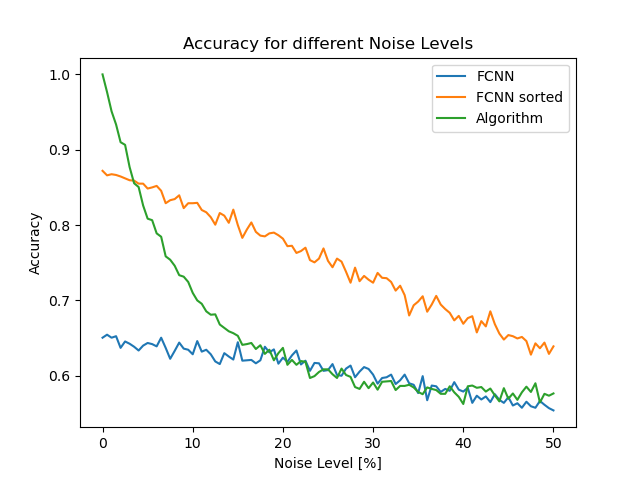
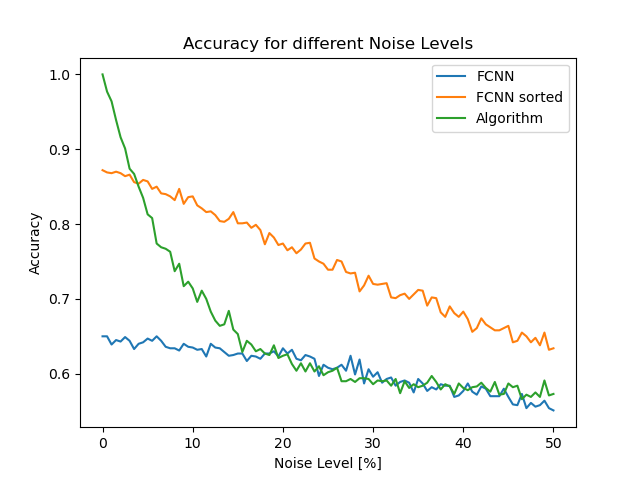
many heatmaps

diff --git a/netz/explainability.py b/netz/explainability.py
@@ -17,48 +17,55 @@ def check_inf_sites_arg(m):
       found_same = (len(list(set(indices1) & set(indices2))) != 0)
 
       if found_diff & found_same: return [i, j], (list(set(indices1) - set(indices2)) + list(set(indices2) - set(indices1)) + list(set(indices1) & set(indices2)))
-  return []
+  return list(), list()
 
-netzfc = torch.load('saved_fc_netz_won.py')
+netzfc = torch.load('saved_fc_netz_won.py', map_location=torch.device('cpu'))
 data = read_data_tens("../data/test_fin_sorted.txt")
-#data_noise = read_data_tens("../data/test_fin_noise_15_sorted.txt")
-netzfc = netzfc.cpu() 
+#data = read_data_tens("../data/test_fin_noise_15_sorted.txt")
 netzfc.eval()
-ig = IntegratedGradients(netzfc)
+#ig = IntegratedGradients(netzfc)
 occ = Occlusion(netzfc)
-mat = data[2].unsqueeze(0)
-#mat_noise = data_noise[2].unsqueeze(0)
-#attr_ig = ig.attribute(mat, target=0, n_steps=100)
-attr_occ = occ.attribute(mat, sliding_window_shapes=(1,1))
-#attr_occ_noise = occ.attribute(mat_noise, sliding_window_shapes=(1,1))
-alg = np.zeros((10,10))
-cols, rows = check_inf_sites_arg(mat[0])
-for col in cols:
-  for row in rows:
-    alg[row, col] = -1
+class_net = []
+attr_occ = []
+class_alg = []
+alg = []
+i = 0
+while i < 10:
+  mat = data[i+10].unsqueeze(0)
+  class_net.append(int(torch.round(netzfc(mat))[0]))
+  attr_occ.append(occ.attribute(mat, sliding_window_shapes=(1,1)))
+  class_alg.append(check_inf_sites(mat[0]))
+  a = np.zeros((10,10))
+  cols, rows = check_inf_sites_arg(mat[0])
+  for col in cols:
+    for row in rows:
+      a[row, col] = -1
+  alg.append(a)
+  i += 1
 
-fig, axs = plt.subplots(nrows=1, ncols=2, figsize=(15,5))
-heatmap_net = axs[0].imshow(np.array(attr_occ[0]), cmap='hot', interpolation='nearest')
-cbar_net = plt.colorbar(heatmap_net, ax=axs[0])
-axs[0].set_title("Network")
-heatmap_alg = axs[1].imshow(alg, cmap='hot', interpolation='nearest')
-cbar_alg = plt.colorbar(heatmap_alg, ax=axs[1])
-axs[1].set_title("Algorithm")
-mat = np.array(mat[0])
-for i in range(mat.shape[0]):
-    for j in range(mat.shape[1]):
-        text_color1 = 'white' if np.array(attr_occ[0])[i, j] < (-0.6) else 'black'
-        text_color2 = 'white' if alg[i, j] == (-1) else 'black'
-        text1 = axs[0].text(j, i, int(mat[i,j]), ha='center', va='center', color=text_color1)
-        text2 = axs[1].text(j, i, int(mat[i,j]), ha='center', va='center', color=text_color2)
+heatmaps = []
+cbars = []
+fig, axs = plt.subplots(nrows=5, ncols=4, figsize =(60, 50))
 
-"""
-plt.subplot(1, 3, 2)
-plt.imshow(np.array(attr_occ_noise[0]), cmap='hot', interpolation='nearest')
-plt.colorbar()
-plt.title("Network Noise")
-"""
+inx = 0
+for k in range(5):
+  for l in range(2):
+    heatmaps.append(axs[k, l*2].imshow(np.array(attr_occ[inx][0]), cmap='summer', interpolation='nearest'))
+    cbars.append(plt.colorbar(heatmaps[-1], ax=axs[k, l*2]))
+    axs[k, l*2].set_title(str(class_net[inx]))
+    heatmaps.append(axs[k, l*2+1].imshow(alg[inx], cmap='gray', interpolation='nearest'))
+    cbars.append(plt.colorbar(heatmaps[-1], ax=axs[k, l*2+1]))
+    axs[k, l*2+1].set_title(str(class_alg[inx]))
+    mat = data[inx+10]
+    for i in range(mat.shape[0]):
+        for j in range(mat.shape[1]):
+            #text_color1 = 'white' if np.array(attr_occ[inx][0])[i, j] < (-0.6) else 'black'
+            text_color2 = 'white' if alg[inx][i, j] == (-1) else 'black'
+            text1 = axs[k, l*2].text(j, i, int(mat[i,j]), ha='center', va='center', color='black')
+            text2 = axs[k, l*2+1].text(j, i, int(mat[i,j]), ha='center', va='center', color=text_color2)
+    inx += 1
+
 
 plt.tight_layout()
-plt.savefig('../results/heatmap_won.png')
+plt.savefig('../results/heatmaps2_won.png')
 plt.show()

diff --git a/netz/eval_netz.py b/netz/eval_netz.py
@@ -9,15 +9,19 @@ from torch.autograd import Variable
 #netz = torch.load('saved_conv_netz.py')
 netzfc = torch.load('saved_fc_netz.py', map_location=torch.device('cpu'))
 # netzwon = torch.load('saved_fc_netz_won.py')
-netzuns = torch.load('saved_fc_netz_unsorted.py', map_location=torch.device('cpu'))
+#netzuns = torch.load('saved_fc_netz_unsorted.py', map_location=torch.device('cpu'))
+
+def classify(input, cutoff):
+  if input > cutoff: return 1
+  else: return 0
 
 def test_var_noise():
   #netz.eval()
   netzfc.eval()
-  netzuns.eval()
+  #netzuns.eval()
   #hits = 0
   hits_fc = 0
-  hits_uns = 0
+  hits_ctoff = 0
   #hits_won = 0
   hits_algo = 0
   for input, target in testing_data:
@@ -33,19 +37,18 @@ def test_var_noise():
     """
     # output = netz(expanded_input)
     output_fc = netzfc(input_sort)
-    output_uns = netzuns(input)
     #output_won = netzwon(input)
     target = Variable(target)
     #if(torch.round(output) == target): hits += 1
-    if(torch.round(output_fc) == target): hits_fc += 1
-    if(torch.round(output_uns) == target): hits_uns += 1
+    if(classify(output_fc, 0.5) == target): hits_fc += 1
+    if(classify(output_fc, 0.4) == target): hits_ctoff += 1
     #if(torch.round(output_won) == target): hits_won += 1
-  return (hits_uns/len(testing_data)), (hits_fc/len(testing_data)), (hits_algo/len(testing_data))
+  return (hits_ctoff/len(testing_data)), (hits_fc/len(testing_data)), (hits_algo/len(testing_data))
   #return (hits_fc/len(testing_data))
 
 #acc = []
 acc_fc = []
-acc_uns = []
+acc_ctoff = []
 #acc_won = []
 acc_algo = []
 noise = []
@@ -58,26 +61,26 @@ while (b <= 0.5):
   print(b)
   if(b == 0): a = 0
   else: a = 10**(-5)
-  uns, fc, algo = test_var_noise()
+  ctoff, fc, algo = test_var_noise()
   #fc = test_var_noise()
   #acc.append(net)
-  acc_fc.append(round(fc, 4))
-  acc_uns.append(round(uns, 4))
+  acc_fc.append(round(fc, 3))
+  acc_ctoff.append(round(ctoff, 3))
   #acc_won.append(won)
-  acc_algo.append(round(algo, 4))
+  acc_algo.append(round(algo, 3))
   noise.append(b*100)
   b = round(b + 0.005, 3)
 
 
 #plt.plot(noise, acc, label = "CNN")
-plt.plot(noise, acc_uns, label = "FCNN")
-plt.plot(noise, acc_fc, label = "FCNN sorted")
+plt.plot(noise, acc_fc, label = "FCNN cutoff 0,5")
+plt.plot(noise, acc_ctoff, label = "FCNN cutoff 0,4")
 #plt.plot(noise, acc_won, label = "FCNN without Noise")
 plt.plot(noise, acc_algo, label = "Algorithm")
 plt.ylabel('Accuracy')
 plt.xlabel('Noise Level [%]')
 plt.title('Accuracy for different Noise Levels')
 plt.legend()
-plt.savefig('../results/Accuracy_Noise_unsorted.png')
+plt.savefig('../results/Accuracy_Noise_cutoff.png')
 plt.show()
 

diff --git a/netz/FNR_FPR.py b/netz/FNR_FPR.py
@@ -1,0 +1,66 @@
+from hlp_fncs import *
+from get_dataset import *
+from fc_netz import *
+import matplotlib.pyplot as plt
+import torch
+from torch.autograd import Variable 
+
+netzfc = torch.load('saved_fc_netz.py', map_location=torch.device('cpu'))
+
+def test_var_noise():
+  netzfc.eval()
+  fn_n = 0
+  fp_n = 0
+  fn_a = 0
+  fp_a = 0
+  for input, target in testing_data:
+    input = torch.tensor(noise_matrix(np.array(input[0]), a, b)).unsqueeze(0)
+    input = sort_tensor(input)
+    algo_erg = check_inf_sites(np.array(input[0]))
+    if(algo_erg != int(target[0]) and algo_erg == 0): fn_a += 1
+    if(algo_erg != int(target[0]) and algo_erg == 1): fp_a += 1
+    output_fc = netzfc(input)
+    target = Variable(target)
+    if(torch.round(output_fc) != target and torch.round(output_fc) == 0): fn_n += 1
+    if(torch.round(output_fc) != target and torch.round(output_fc) == 1): fp_n += 1
+  return (fn_n/len(testing_data)), (fp_n/len(testing_data)), (fn_a/len(testing_data)), (fp_a/len(testing_data))
+
+
+fnr_net = []
+fpr_net = []
+fnr_alg = []
+fpr_alg = []
+noise = []
+
+b = 0
+
+testing_data = get_train_dataset("../data/test_fin.txt", "../data/test_inf.txt", 1)
+
+while (b <= 0.5):
+  print(b)
+  if(b == 0): a = 0
+  else: a = 10**(-5)
+  fnr_n, fpr_n, fnr_a, fpr_a = test_var_noise()
+  fnr_net.append(round(fnr_n, 3))
+  fpr_net.append(round(fpr_n, 3))
+  fnr_alg.append(round(fnr_a, 3))
+  fpr_alg.append(round(fpr_a, 3))
+  noise.append(b*100)
+  b = round(b + 0.005, 3)
+
+plt.figure(figsize=(15,5))
+plt.subplot(1,2,1)
+plt.plot(noise, fnr_net, label = "FNR")
+plt.plot(noise, fpr_net, label = "FPR")
+plt.xlabel('Noise Level [%]')
+plt.title('Network')
+plt.legend()
+plt.subplot(1,2,2)
+plt.plot(noise, fnr_alg, label = "FNR")
+plt.plot(noise, fpr_alg, label = "FPR")
+plt.xlabel('Noise Level [%]')
+plt.title('Algorithm')
+plt.legend()
+plt.savefig('../results/FNR_FPR.png')
+plt.show()
+

diff --git a/netz/quick_test.py b/netz/quick_test.py
@@ -1,0 +1,17 @@
+from hlp_fncs import *
+from get_dataset import *
+from fc_netz import *
+
+netz = torch.load('saved_fc_netz_won.py')
+netz.eval()
+testing_data = get_train_dataset("../data/test_fin_sorted.txt", "../data/test_inf_sorted.txt", 16)
+
+acc = 0
+
+for input, target in testing_data:
+  input = input.cuda()
+  target = target.cuda()
+  output = netz(input)
+  acc += accuracy(output, target)
+
+print(acc/len(testing_data))
